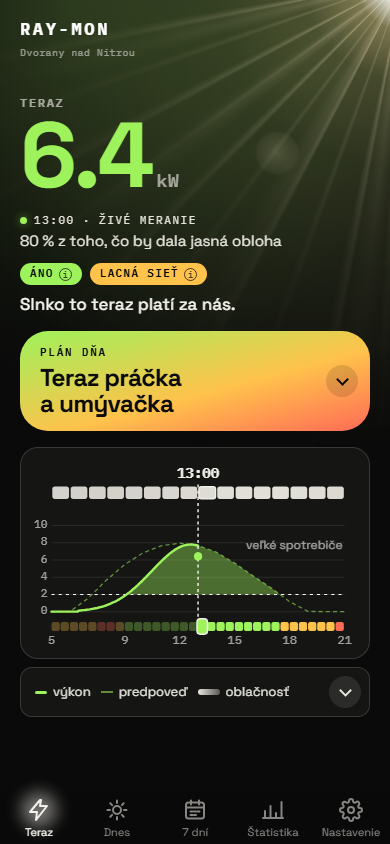
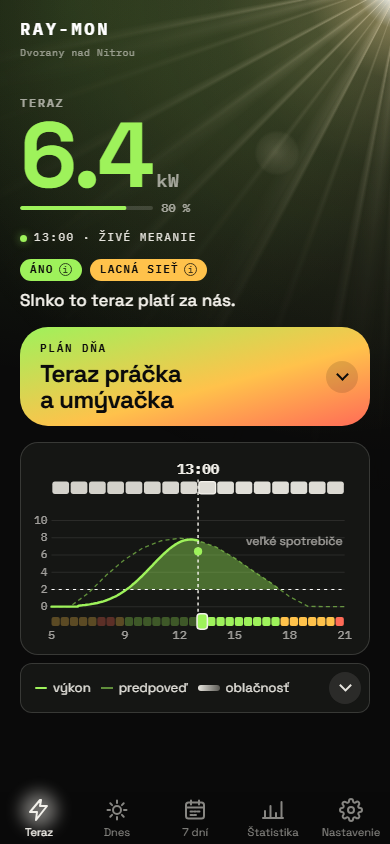
feat: pásik jasnej oblohy pod číslom karty Teraz namiesto vety (#427)
## Čo sa mení

Karta Teraz, **v oboch appkách rovnako**:

- **Preč:** veta „x % z toho, čo by dala jasná obloha“ pod číslom aj
nočná veta „slnko je pod obzorom“. Veta pod číslom ostáva len pri
typickej streche.
- **Nové:** tenký pásik s percentom pod číslom výkonu – koľko z jasnej
oblohy strecha dáva vo zvolenej chvíli, aby aj menej znalý videl, či je
číslo veľa alebo málo (mockup variant B).
  - pevná šírka, s číslom sa nemení,
- v noci prázdny s „–“, nie skrytý – v náhľade iného času graf pod
prstom neposkočí,
  - aj pri odhade z predpovede a typickej streche,
- čítačka: „80 % z toho, čo by dala jasná obloha.“, v noci „Slnko je pod
obzorom.“
- Odznaky ostávajú s „i“.
- **Obloha:** väčšia medzera medzi riadkom stavu merania a štítkami –
bez vety by sa ich dotykové plochy (44 px) prekrývali o 10 px.

## Jadro

- `terazModel.jas` (`shared/teraz.js`, `jasOf`): `{ pct, label, text }`,
strop `clearKw` z predpovede dneška – ten istý ako percento využitia na
karte 7 dní.
- `terazJasText` nahrádza `terazClearText`; `TERAZ_TEXTS.night` zmazané.
- Golden texty: vypadli vety „x % z toho, čo by dala jasná obloha“ a
„slnko je pod obzorom“ (`UPDATE_GOLDEN=1`). Predpoveď (`forecast.json`)
sa nemení.

## Overenie

- `npm run check` zelené.
- `npm run test:e2e`: 388 passed. Nové kontroly pásika v e2e oboch
appiek (text, veta pre čítačku, vyplnenie – z modelu). Kontrast popisku
v Oblohe bol pôvodne pod 4,5 : 1 (priehľadnosť 0,8), opravené na plne
bielu.
[…]

Changed region(s): [[0.0308, 0.2464, 0.9538, 0.8318], [0.9231, 0.4005, 0.9538, 0.4313]]

diff --git a/test/teraz.test.js b/test/teraz.test.js
@@ -18,6 +18,7 @@ import {
     slotTone,
     tickHours,
 } from '../shared/day-chart.js';
+import { interpolate } from '../shared/chart-model.js';
 import { dayPlan } from '../shared/day-plan.js';
 import { kwpRoughText } from '../shared/format.js';
 import { heroModel, pvFreshness } from '../shared/hero-model.js';
@@ -30,8 +31,8 @@ import {
     terazBandNext,
     terazBandText,
     terazChartText,
-    terazClearText,
     terazCloudText,
+    terazJasText,
     terazKwText,
     terazLaterText,
     terazLimitFrom,
@@ -467,7 +468,11 @@ test('terazModel o 13:00: číslo, štítky s vetou a Plán dňa z mozemModel, p
     // Mimo náhľadu hovorí o čísle riadok stavu merania (stavRiadok v shared/hlavicka.js).
     assert.equal(m.source, '');
     assert.equal(m.preview, false);
-    assert.match(m.sub, /^\d+ % z toho, čo by dala jasná obloha$/);
+    assert.equal(m.sub, '', 'pod číslom nie je veta');
+    const today = i.forecast?.days[0];
+    const clear = today ? interpolate(today.hourly, hero.minutes / 60, 'clearKw') : 0;
+    const pct = Math.min(100, Math.round((100 * hero.power) / clear));
+    assert.deepEqual(m.jas, { pct, label: `${pct} %`, text: terazJasText(pct) });
     assert.equal(m.retry, false);
     assert.equal(m.guess, false);
     const cards = dnesCards(i);
@@ -648,13 +653,15 @@ test('terazModel: výrobca prístup odmietol - pás povie prečo a vedie k opät
     assert.match(terazModel(i, { voice: 'slusny' }).note?.text ?? '', /Kým meranie nepripojíte znova/);
 });
 
-test('terazModel: noc - výkon 0, veta o obzore, okno, ktoré už bolo, a lacná sieť', () => {
+test('terazModel: noc - výkon 0, bez vety pod číslom, okno, ktoré už bolo, a lacná sieť', () => {
     const vecer = terazModel(input(at('21:00')));
     assert.equal(vecer.num, '0');
-    assert.equal(vecer.sub, TERAZ_TEXTS.night);
+    assert.equal(vecer.sub, '');
+    // Pásik ostáva, len prázdny - v náhľade do noci sa graf pod prstom nepohne.
+    assert.deepEqual(vecer.jas, { pct: null, label: '–', text: 'Slnko je pod obzorom.' });
     assert.match(dnesCards(input(at('21:00')))?.today.window ?? '', /^Okno na veľké veci bolo /);
     const noc = terazModel(input(at('02:00')));
-    assert.equal(noc.sub, TERAZ_TEXTS.night);
+    assert.equal(noc.sub, '');
     assert.match(dnesCards(input(at('02:00')))?.today.window ?? '', /^Okno na veľké veci \d/);
 });
 
@@ -693,6 +700,7 @@ test('terazModel: poloha bez panelov - typická strecha s „~“ a výzva, výp
     assert.equal(m.source, '');
     assert.equal(m.num, `~${heroModel(g).powerText}`);
     assert.equal(m.sub, 'typická strecha asi 5 kWp v tvojej obci, nie tvoja');
+    assert.ok(m.jas && m.jas.pct !== null && m.jas.pct > 0, 'pásik jasu aj pri odhade z typickej strechy');
     assert.ok(m.plan, 'Plán dňa aj z typickej strechy');
     assert.match(dnesCards(g)?.today.line ?? '', /podľa nej už asi/);
 });
@@ -703,14 +711,15 @@ test('terazModel: predpoveď z iného dňa (po polnoci pred obnovou) netvrdí dn
     const m = terazModel(zajtra);
     assert.equal(dnesCards(zajtra)?.today.line, '');
     assert.equal(dnesCards(zajtra)?.today.pct, null);
-    assert.equal(m.sub, TERAZ_TEXTS.night);
+    assert.equal(m.sub, '');
 });
 
 test('texty karty Teraz', () => {
+    assert.equal(terazJasText(72), '72 % z toho, čo by dala jasná obloha.');
+    assert.equal(terazJasText(null), 'Slnko je pod obzorom.');
     assert.equal(terazSourceText('live'), 'živé meranie');
     assert.equal(terazSourceText('measured'), 'namerané');
     assert.equal(terazSourceText('forecast'), 'odhad z predpovede');
-    assert.equal(terazClearText(72), '72 % z toho, čo by dala jasná obloha');
     assert.equal(terazPreviewTime(hm(15, 30)), '15:30');
     assert.equal(terazSliderText(hm(8), true, '1.20', 'costly'), 'Náhľad 08:00, 1.20 kW, drahá sieť');
     assert.equal(terazWindowText({ from: hm(9, 15), to: hm(16, 45) }, false), 'Okno na veľké veci 09:15 – 16:45.');

diff --git a/shared/teraz.js b/shared/teraz.js
@@ -15,8 +15,8 @@ import {
     terazBandNext,
     terazBandText,
     terazChartText,
-    terazClearText,
     terazCloudText,
+    terazJasText,
     terazKwText,
     terazLimitFrom,
     terazLimitGap,
@@ -81,7 +81,23 @@ export function terazModel(input, { online = true, voice = 'drzy', devices } = {
         say: { chips: m.chips, text: m.say },
         plan: m.plan && m.planHead ? { ...m.plan, head: m.planHead } : null,
         pocasie: pocasieOf(input, hero),
+        jas: jasOf(input, hero),
     };
+}
+
+/**
+ * Pásik pod číslom: koľko z jasnej oblohy dáva strecha vo zvolenej chvíli, aby aj menej znalý
+ * videl, či je číslo veľa alebo málo. Jasná obloha je bezoblačný strop predpovede dneška
+ * (`clearKw`), ten istý, z ktorého počíta percento využitia karta 7 dní. Platí aj pre odhad
+ * z predpovede. V noci a bez stropu je pásik prázdny (`pct` null), nie skrytý - pod prstom
+ * v náhľade sa tak nič nepohne. `text` je pre čítačku.
+ * @param {TerazInput} input @param {ReturnType<typeof heroModel>} hero
+ */
+function jasOf(input, hero) {
+    const today = todayOf(input);
+    const clear = today ? interpolate(today.hourly, hero.minutes / 60, 'clearKw') : 0;
+    const pct = !hero.isNight && clear > 0 && Number.isFinite(hero.power) ? Math.min(100, Math.round((100 * hero.power) / clear)) : null;
+    return { pct, label: pct === null ? '–' : `${pct} %`, text: terazJasText(pct) };
 }
 
 /**
@@ -120,7 +136,7 @@ function pocasieOf(input, hero) {
 }
 
 /**
- * Nadpis, číslo a riadok pod ním: koľko z jasnej oblohy. Pri typickej streche „~“ a veta, že to
+ * Nadpis, číslo a riadok pod ním (pri vlastnej streche prázdny). Pri typickej streche „~“ a veta, že to
  * nie je vlastná strecha. Počas náhľadu nadpis namiesto „Teraz“ povie čas, ku ktorému číslo patrí -
  * text sa mení, riadok ostáva, aby sa graf pod prstom nepohol. Medzi číslom a vetou je riadok stavu
  * merania (stavRiadok v shared/hlavicka.js); `source` je preň odkiaľ je číslo v náhľade, mimo neho
@@ -135,7 +151,7 @@ function headOf(input, hero, { estimate, voice }) {
         return { title, num, source: '', sub: terazTypicalText(installedKw(input.plant), voice) };
     }
     const source = hero.preview && hero.source ? terazSourceText(hero.source) : '';
-    return { title, num: hero.powerText, source, sub: clearSub(input, hero) };
+    return { title, num: hero.powerText, source, sub: '' };
 }
 
 /**
@@ -177,21 +193,8 @@ function empty(kind, estimate) {
         say: /** @type {{ chips: import('./mozem.js').Chip[], text: string } | null} */ (null),
         plan: /** @type {(NonNullable<import('./mozem.js').MozemModelPlan> & { head: { lead: string, then: string } }) | null} */ (null),
         pocasie: /** @type {import('./pocasie.js').Pocasie | null} */ (null),
+        jas: /** @type {{ pct: number | null, label: string, text: string } | null} */ (null),
     };
-}
-
-/**
- * Veta pod číslom: koľko z jasnej oblohy v tej chvíli. Jasná obloha je bezoblačný strop
- * predpovede dneška (`clearKw`), ten istý, z ktorého počíta percento využitia karta 7 dní.
- * V noci (plán dňa: slnko pod obzorom) ani strop nie je, je len veta o obzore.
- * @param {TerazInput} input @param {ReturnType<typeof heroModel>} hero
- */
-function clearSub(input, hero) {
-    const today = todayOf(input);
-    const clear = today ? interpolate(today.hourly, hero.minutes / 60, 'clearKw') : 0;
-    if (hero.isNight || !(clear > 0)) return voiceTexts().TERAZ_TEXTS.night;
-    if (!Number.isFinite(hero.power)) return '';
-    return terazClearText(Math.min(100, Math.round((100 * hero.power) / clear)));
 }
 
 /** Dnešok v predpovedi, alebo null, keď predpoveď začína iným dňom (po polnoci pred obnovou). @param {import('./day-plan.js').PlanInput} input */

diff --git a/test/e2e/obloha.spec.js b/test/e2e/obloha.spec.js
@@ -229,11 +229,13 @@ test('hlavička: miesto elektrárne; bodka a čas živého merania v riadku pod 
     // Slovo povie riadok sám, čítačka nepotrebuje dopĺňať, čo hovorí bodka.
     await expect(page.locator('#hdr-tone')).toHaveText('');
     await expect(page.locator('#hdr-setup')).toBeHidden();
-    // Riadok nie je v hlavičke, ale medzi číslom a vetou pod ním (docs/navrhy/teraz-stav-merania.html).
+    // Riadok nie je v hlavičke, ale pod číslom nad štítkami (docs/navrhy/teraz-stav-merania.html).
+    // Veta pod číslom je len pri typickej streche, s vlastnou je skrytá.
     await expect(page.locator('header #hdr-live')).toHaveCount(0);
+    await expect(page.locator('#tz-sub')).toBeHidden();
     const y = (/** @type {string} */ sel) => page.locator(sel).evaluate((el) => el.getBoundingClientRect().top);
     expect(await y('#tz-stav')).toBeGreaterThan(await y('#tz-num'));
-    expect(await y('#tz-stav')).toBeLessThan(await y('#tz-sub'));
+    expect(await y('#tz-stav')).toBeLessThan(await y('#tz-chips'));
     expect(errors).toEqual([]);
 });
 
@@ -1013,6 +1015,14 @@ const terazVStranke = (page) =>
             // Riadok stavu hovorí o čísle (odkiaľ je) len v náhľade, inak o meraní (testy riadku stavu).
             source: /** @type {HTMLElement} */ (document.querySelector('#hdr-live')).dataset.tone === 'nahlad' ? text('#hdr-status') : '',
             sub: text('#tz-sub'),
+            // Pásik pod číslom: percento, veta pre čítačku a koľko z dĺžky je vyplnené.
+            jas: document.querySelector('#tz-jas.hidden')
+                ? null
+                : {
+                      label: text('#tz-jas-label'),
+                      text: text('#tz-jas-text'),
+                      fill: getComputedStyle(/** @type {HTMLElement} */ (document.querySelector('#tz-jas'))).getPropertyValue('--jas'),
+                  },
             hint: text('#tz-hint'),
             say: text('#tz-say-text'),
         };
@@ -1024,6 +1034,7 @@ const terazZModelu = (m) => ({
     num: m.num,
     source: m.source,
     sub: m.sub,
+    jas: m.jas && { label: m.jas.label, text: m.jas.text, fill: String((m.jas.pct ?? 0) / 100) },
     hint: m.hint.text,
     say: m.say?.text ?? '',
 });

diff --git a/obloha/style.css b/obloha/style.css
@@ -706,6 +706,11 @@ button.live[aria-expanded='true'] {
     gap: 8px;
     padding: 12px 20px 0;
 }
+/* Bez vety pod číslom stoja štítky hneď pod riadkom stavu merania. Obe sú tlačidlá s plochou 44 px
+   a zápornými okrajmi, takže medzi ich plochami musí byť aspoň 8 px (dotykové plochy v e2e). */
+#tz-sub.hidden + .say {
+    padding-top: 30px;
+}
 /* Plán dňa ako veta a časová os (docs/navrhy/terazky-plan-dna.html, možnosť B): pás každého
    spotrebiča na dnešnom slnku, biela čiara je teraz. Blok je kontajner - dlhé slovo vety ho
    nenatiahne a veta sa zmenší s jeho šírkou. */
@@ -899,6 +904,40 @@ button.live[aria-expanded='true'] {
 /* Číslo z typickej strechy priznáva odhad aj písmom. */
 .knum.est {
     font-style: italic;
+}
+/* Pásik pod číslom: koľko z jasnej oblohy (teraz.jas v shared/teraz.js). Pevná šírka, aby sa
+   s číslom nemenil; v noci prázdny, nie skrytý, aby sa v náhľade graf pod prstom nepohol. */
+.jas {
+    display: flex;
+    align-items: center;
+    gap: 8px;
+    width: min(190px, 100% - 40px);
+    margin: 0;
+    padding: 8px 20px 0;
+    box-sizing: content-box;
+}
+.jas-track {
+    flex: 1;
+    height: 4px;
+    overflow: hidden;
+    border-radius: 2px;
+    background: rgba(255, 255, 255, 0.22);
+}
+.jas-track i {
+    display: block;
+    height: 100%;
+    border-radius: 2px;
+    background: #fff;
+    transform: scaleX(var(--jas, 0));
+    transform-origin: left;
+    transition: transform 0.4s ease;
+}
+#tz-jas-label {
+    min-width: 4ch;
+    font-size: 0.75rem;
+    font-weight: 700;
+    text-align: right;
+    color: #fff;
 }
 
 /* Graf dňa je posúvač času. Zvislý ťah cez neho posúva stránku (pan-y), vodorovný je náhľad -

diff --git a/style.css b/style.css
@@ -777,6 +777,39 @@ b {
 .tz-num.est {
     font-style: italic;
 }
+/* Pásik pod číslom: koľko z jasnej oblohy (teraz.jas v shared/teraz.js). Pevná šírka, aby sa
+   s číslom nemenil; v noci prázdny, nie skrytý, aby sa v náhľade graf pod prstom nepohol. */
+.tz-jas {
+    display: flex;
+    align-items: center;
+    gap: 8px;
+    width: min(170px, 100%);
+    margin: 8px 0 0;
+}
+.tz-jas-track {
+    flex: 1;
+    height: 4px;
+    overflow: hidden;
+    border-radius: 2px;
+    background: var(--ink-12);
+}
+.tz-jas-track i {
+    display: block;
+    height: 100%;
+    border-radius: 2px;
+    background: rgb(var(--tint-rgb));
+    transform: scaleX(var(--jas, 0));
+    transform-origin: left;
+    transition: transform 0.4s ease;
+}
+#tz-jas-label {
+    min-width: 4ch;
+    font-family: var(--font-mono);
+    font-size: 12px;
+    font-weight: 500;
+    text-align: right;
+    color: var(--ink-45);
+}
 /* Stav merania pod číslom (stavRiadok v shared/hlavicka.js): bodka, čas a slovo písmom riadku
    pod číslom, bez pozadia. Pri otvorenej bubline je riadok nad vrstvou .pv-tip-bg (31) aj nad
    navigáciou (30), aby ostal ťukateľný a bublina pri ňom. */

diff --git a/test/e2e/app.spec.js b/test/e2e/app.spec.js
@@ -306,7 +306,13 @@ test('karta Teraz o 13:00 zodpovedá modelu: číslo, štítky s vetou, graf dň
     // Bodka a čas merania sú v riadku pod číslom, nie v hlavičke (docs/navrhy/teraz-stav-merania.html).
     await expect(page.locator('.appbar #pv-clock')).toHaveCount(0);
     await expect(page.locator('#tz-stav')).toBeVisible();
-    await expect(page.locator('#tz-sub')).toHaveText(m.sub);
+    await expect(page.locator('#tz-sub')).toBeHidden();
+    // Pásik pod číslom: koľko z jasnej oblohy.
+    if (!m.jas || m.jas.pct === null) throw new Error('model o 13:00 nemá pásik jasu');
+    await expect(page.locator('#tz-jas')).toBeVisible();
+    await expect(page.locator('#tz-jas-label')).toHaveText(m.jas.label);
+    await expect(page.locator('#tz-jas-text')).toHaveText(m.jas.text);
+    expect(await page.locator('#tz-jas').evaluate((el) => el.style.getPropertyValue('--jas'))).toBe(String(m.jas.pct / 100));
     await expect(page.locator('#tz-retry')).toBeHidden();
     // Graf dňa: oblačnosť po hodinách, predpoveď, nameraná krivka, plocha nad hranicou, hranica
     // s popiskom, os kW, pás plánu po polhodinách a čiara na „teraz“ s časom.

diff --git a/shared/messages-core.js b/shared/messages-core.js
@@ -1199,7 +1199,6 @@ export const TERAZ_TEXTS = {
     hint: 'Ťahaj prstom po grafe a pozri si iný čas.',
     reset: 'Späť na teraz',
     limit: 'veľké spotrebiče',
-    night: 'slnko je pod obzorom',
     loading: 'Načítavam…',
     slider: 'Graf dňa, šípkami si pozrieš iný čas',
     strip: 'Odporúčania, posúvaj do strán',
@@ -1292,9 +1291,9 @@ export function terazNoteText({ since, riadok }, voice = 'drzy') {
     return `${since ? `Meranie neodpovedá od ${since}` : 'Meranie neodpovedá'}. Kým sa neozve, číslo počíta z počasia.`;
 }
 
-/** Veta pod číslom: koľko z jasnej oblohy. @param {number} pct */
-export function terazClearText(pct) {
-    return `${pct} % z toho, čo by dala jasná obloha`;
+/** Pásik pod číslom karty Teraz pre čítačku: koľko z jasnej oblohy, v noci (null) o obzore. @param {number | null} pct */
+export function terazJasText(pct) {
+    return pct === null ? 'Slnko je pod obzorom.' : `${pct} % z toho, čo by dala jasná obloha.`;
 }
 
 /** Veta pod číslom pri typickej streche: priznáva, že nejde o vlastnú strechu. @param {number} kwp @param {Voice} [voice] */

diff --git a/web/render/terazky.js b/web/render/terazky.js
@@ -22,6 +22,14 @@ const textsOf = (state) => voiceTexts(state.voice).TERAZ_TEXTS;
 /** @param {HTMLElement} el @param {boolean} on */
 const show = (el, on) => el.classList.toggle('hidden', !on);
 
+/** Pásik pod číslom: koľko z jasnej oblohy, v noci prázdny. @param {Model['jas']} jas @param {Dom} dom */
+function renderJas(jas, dom) {
+    show(dom.tzJas, !!jas);
+    dom.tzJas.style.setProperty('--jas', String((jas?.pct ?? 0) / 100));
+    dom.tzJasLabel.textContent = jas?.label ?? '';
+    dom.tzJasText.textContent = jas?.text ?? '';
+}
+
 /** Číslo a riadky pod ním. @param {import('../state.js').AppState} state @param {Model} m @param {Dom} dom */
 function renderHead(state, m, dom) {
     // Len „Teraz“, počas náhľadu „O 12:15“ - čas a miesto ukazuje hlavička, ako v novej appke.
@@ -29,6 +37,7 @@ function renderHead(state, m, dom) {
     show(dom.tzNum, m.num !== '');
     dom.tzNum.classList.toggle('est', m.estimate);
     dom.tzNumVal.textContent = m.num;
+    renderJas(m.jas, dom);
     show(dom.tzSub, m.sub !== '');
     dom.tzSub.textContent = m.sub;
     show(dom.tzNote, !!m.note);

diff --git a/index.html b/index.html
@@ -136,6 +136,12 @@
                 <div class="tz-head">
                     <h1 id="tz-title" class="tz-kick">Teraz</h1>
                     <p id="tz-num" class="tz-num"><span id="tz-num-val">–</span><small>kW</small></p>
+                    <!-- Koľko z jasnej oblohy: pásik a percento, čítačke veta. -->
+                    <p id="tz-jas" class="tz-jas hidden">
+                        <span class="tz-jas-track" aria-hidden="true"><i></i></span>
+                        <span id="tz-jas-label" aria-hidden="true"></span>
+                        <span id="tz-jas-text" class="sr-only"></span>
+                    </p>
                     <!-- Stav merania pod číslom (docs/navrhy/teraz-stav-merania.html): bodka, čas a slovo,
                          ťuknutie otvorí bublinu s vysvetlením (render/terazky.js). Mená prvkov ostali
                          z hlavičky - do #pv-updated píše boot.js hlášku, keď sa appka nenačíta. -->

diff --git a/obloha/index.html b/obloha/index.html
@@ -104,6 +104,12 @@
             <section id="panel-terazky" class="panel teraz" aria-labelledby="ttl-terazky">
                 <h1 id="ttl-terazky" class="ttl">Teraz</h1>
                 <p id="tz-num" class="knum"><span id="tz-num-val"></span><small>kW</small></p>
+                <!-- Koľko z jasnej oblohy: pásik a percento, čítačke veta. -->
+                <p id="tz-jas" class="jas hidden">
+                    <span class="jas-track" aria-hidden="true"><i></i></span>
+                    <span id="tz-jas-label" aria-hidden="true"></span>
+                    <span id="tz-jas-text" class="sr"></span>
+                </p>
                 <!-- Stav merania pod číslom (docs/navrhy/teraz-stav-merania.html): bodka, čas a slovo,
                      ťuknutie otvorí bublinu s vysvetlením (render/teraz.js). Mená prvkov ostali z hlavičky -
                      do #hdr-status píše boot.js hlášku, keď sa appka nenačíta. -->

diff --git a/obloha/web/render/teraz.js b/obloha/web/render/teraz.js
@@ -205,6 +205,14 @@ function renderPlan(plan, open, dom) {
     );
 }
 
+/** Pásik pod číslom: koľko z jasnej oblohy, v noci prázdny. @param {Model['jas']} jas @param {Dom} dom */
+function renderJas(jas, dom) {
+    show(dom.tzJas, !!jas);
+    dom.tzJas.style.setProperty('--jas', String((jas?.pct ?? 0) / 100));
+    setText(dom.tzJasLabel, jas?.label ?? '');
+    setText(dom.tzJasText, jas?.text ?? '');
+}
+
 /** @param {import('../state.js').AppState} state @param {Dom} dom */
 export function renderTeraz(state, dom) {
     const TERAZ_TEXTS = voiceTexts(state.voice).TERAZ_TEXTS;
@@ -223,6 +231,7 @@ export function renderTeraz(state, dom) {
     show(dom.tzNum, m.num !== '');
     dom.tzNum.classList.toggle('est', m.estimate);
     setText(dom.tzNumVal, m.num);
+    renderJas(m.jas, dom);
     show(dom.tzSub, m.sub !== '');
     setText(dom.tzSub, m.sub);
     show(dom.tzNote, !!m.note);

diff --git a/shared/config.js b/shared/config.js
@@ -812,7 +812,7 @@ export const SKY = {
  * `dazdSila.dazd` dážď, od `dazdSila.silny` silný dážď, všetko v mm za hodinu. Hranice 0,5 a 4 sú
  * z delenia Met Office; zo staníc by stáli vyššie, no model ich priemeruje cez políčko siete
  * (2-11 km), takže lejak v ňom vyjde slabší ako na zrážkomere. Jas z merania: podiel
- * výkonu z výkonu pri jasnej oblohe (veta „x % z toho, čo by dala jasná obloha“) od `jasno`
+ * výkonu z výkonu pri jasnej oblohe od `jasno`
  * je jasno, pod `zamracene` zamračené, medzi nimi polooblačno. Meraniu sa verí, len keď by
  * jasná obloha dala aspoň `istyPodiel` výkonu zostavy - ráno a večer pri nízkom slnku podiel
  * skáče a o oblakoch nehovorí.
